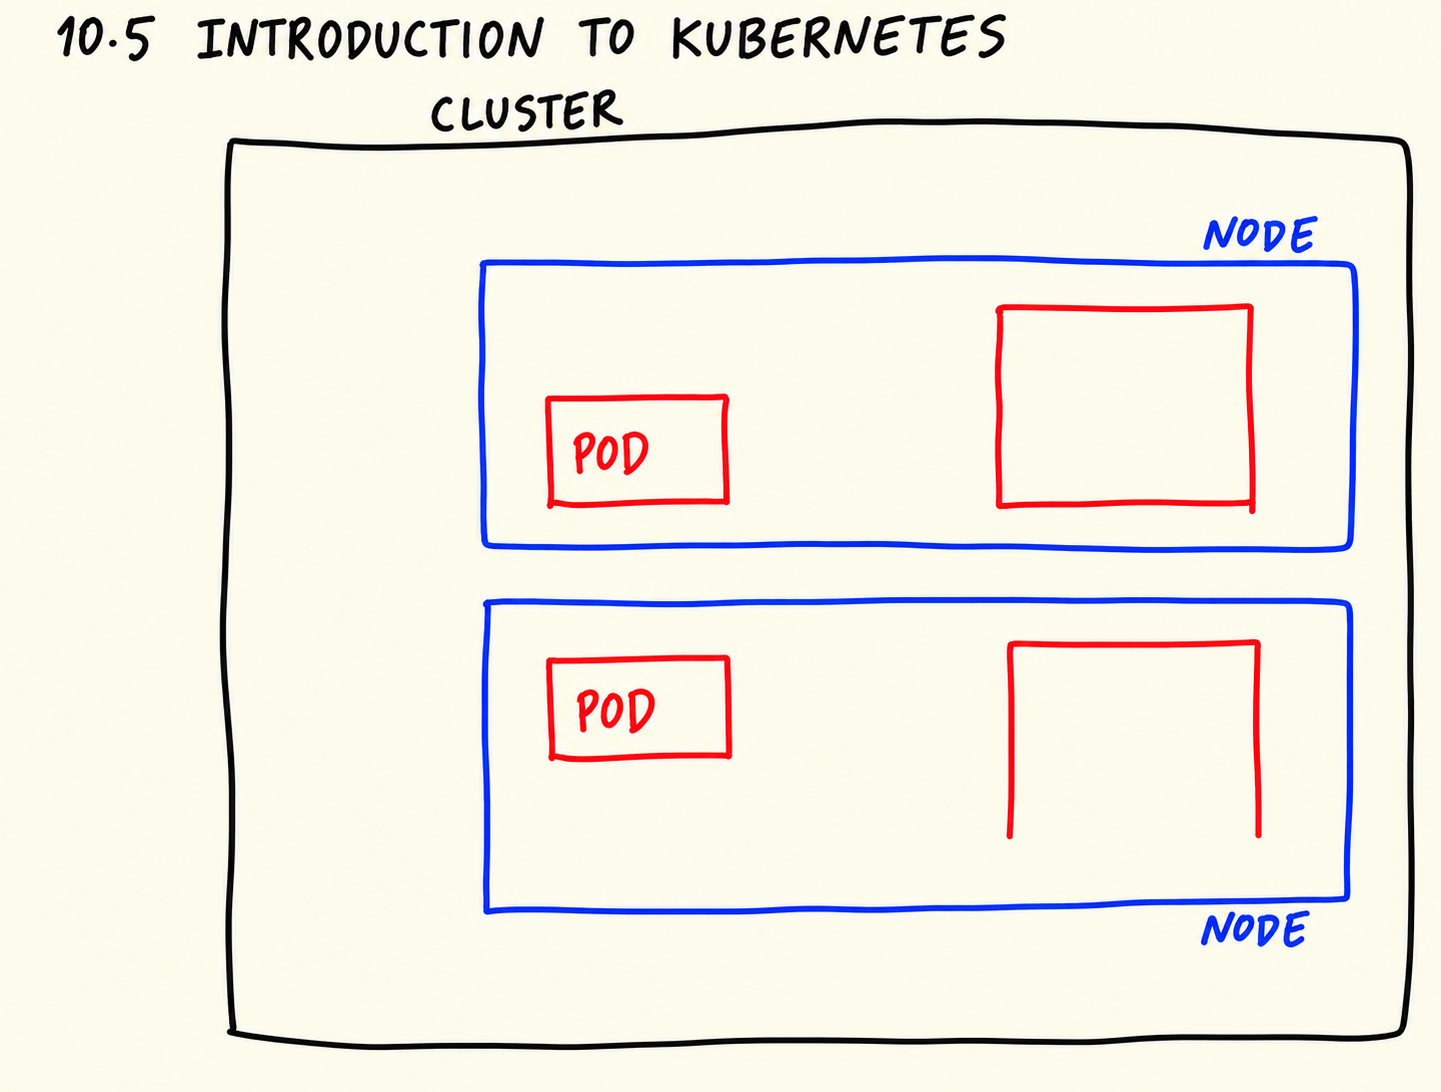
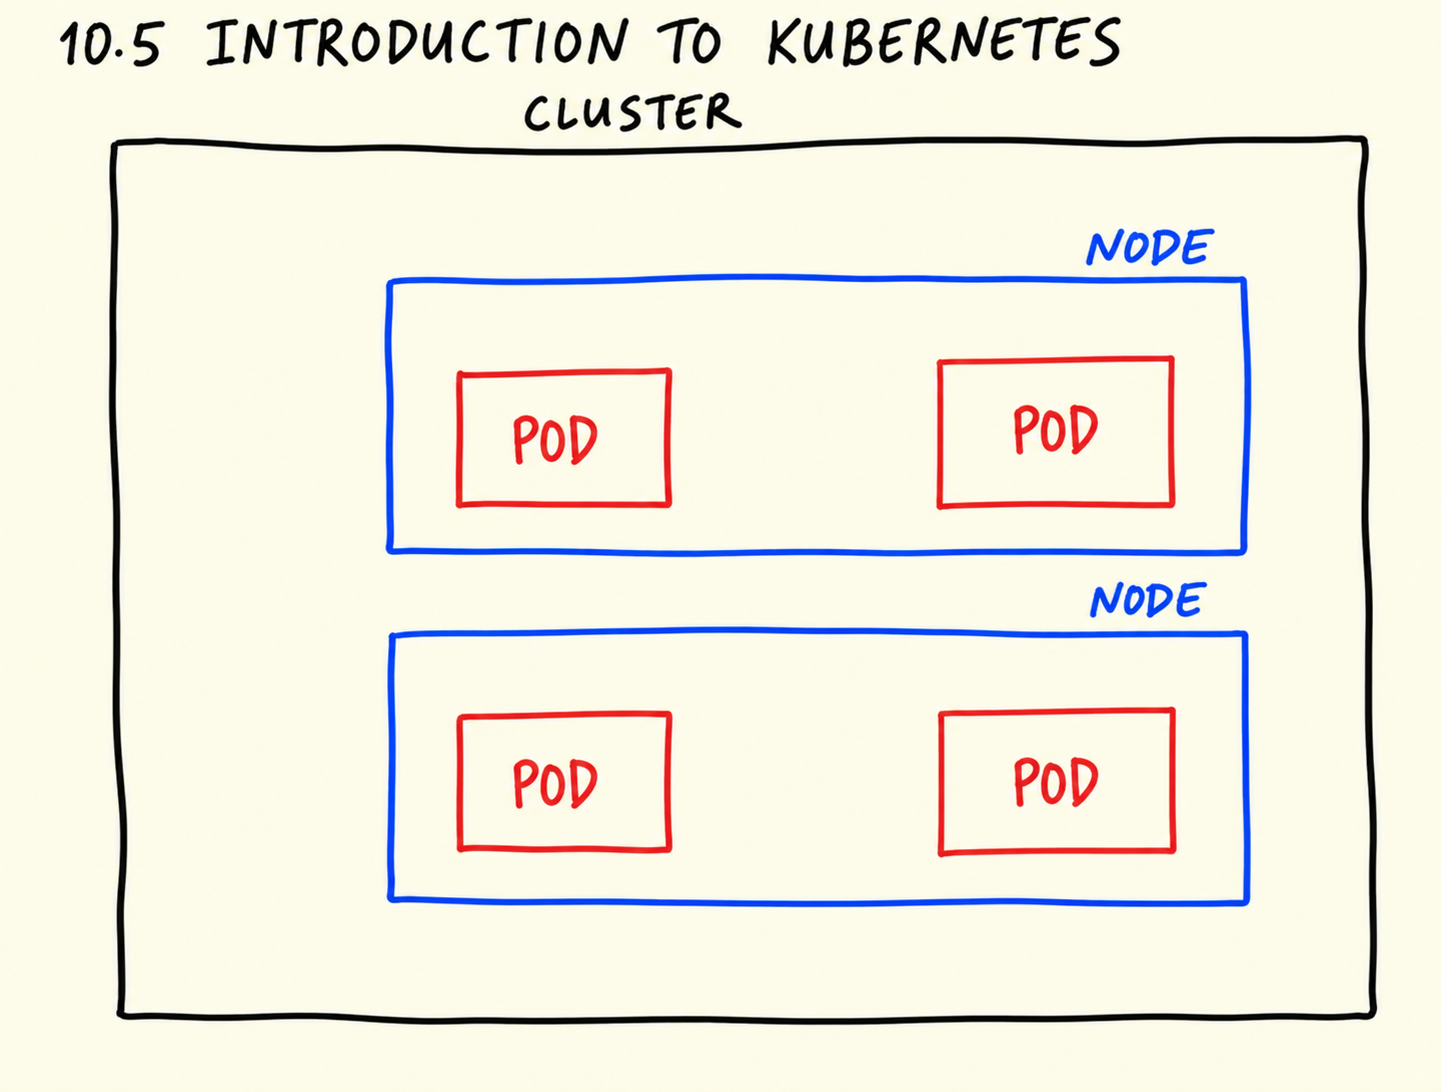
Repair Kubernetes nodes and pods visual

diff --git a/cohorts/2026/10-kubernetes/images/2026-09-08-kubernetes-imagegen-repair-provenance.md b/cohorts/2026/10-kubernetes/images/2026-09-08-kubernetes-imagegen-repair-provenance.md
@@ -16,7 +16,7 @@ render, or the documented prompt-native conceptual exception.
[8 lines of base64/hex data omitted]
@@ -39,12 +39,12 @@ other enhancement. The script includes the six earlier source-backed crops,
 the two repaired screenshot-derived inputs, and the definitions source-evidence
 crop.
 
-The two repaired outputs used both the full original JPG and the matching
+The three repaired outputs used both the full original JPG and the matching
 native crop as imagegen inputs. The accepted built-in imagegen executions were
-`exec-2a0b1faa-ba35-401d-9ec9-452e281f7f47` for Services and
-`exec-caadcb9c-ee07-4a48-9522-03fd206900e9` for External/Internal/Ingress.
-Rejected imagegen candidates were not used as inputs to either published
-output.
+`exec-2a0b1faa-ba35-401d-9ec9-452e281f7f47` for Services,
+`exec-caadcb9c-ee07-4a48-9522-03fd206900e9` for External/Internal/Ingress, and
+`exec-76fef7e7-e5bf-494d-adf9-2723eec3903a` for Cluster/Nodes/Pods. Rejected
+imagegen candidates were not used as inputs to any published output.
 
 | Source JPG | Native crop | Crop size | Source SHA-256 | Crop SHA-256 |
 | --- | --- | ---: | --- | --- |
@@ -104,5 +104,6 @@ references above.
 | --- | --- | --- |
[5 lines of base64/hex data omitted]
